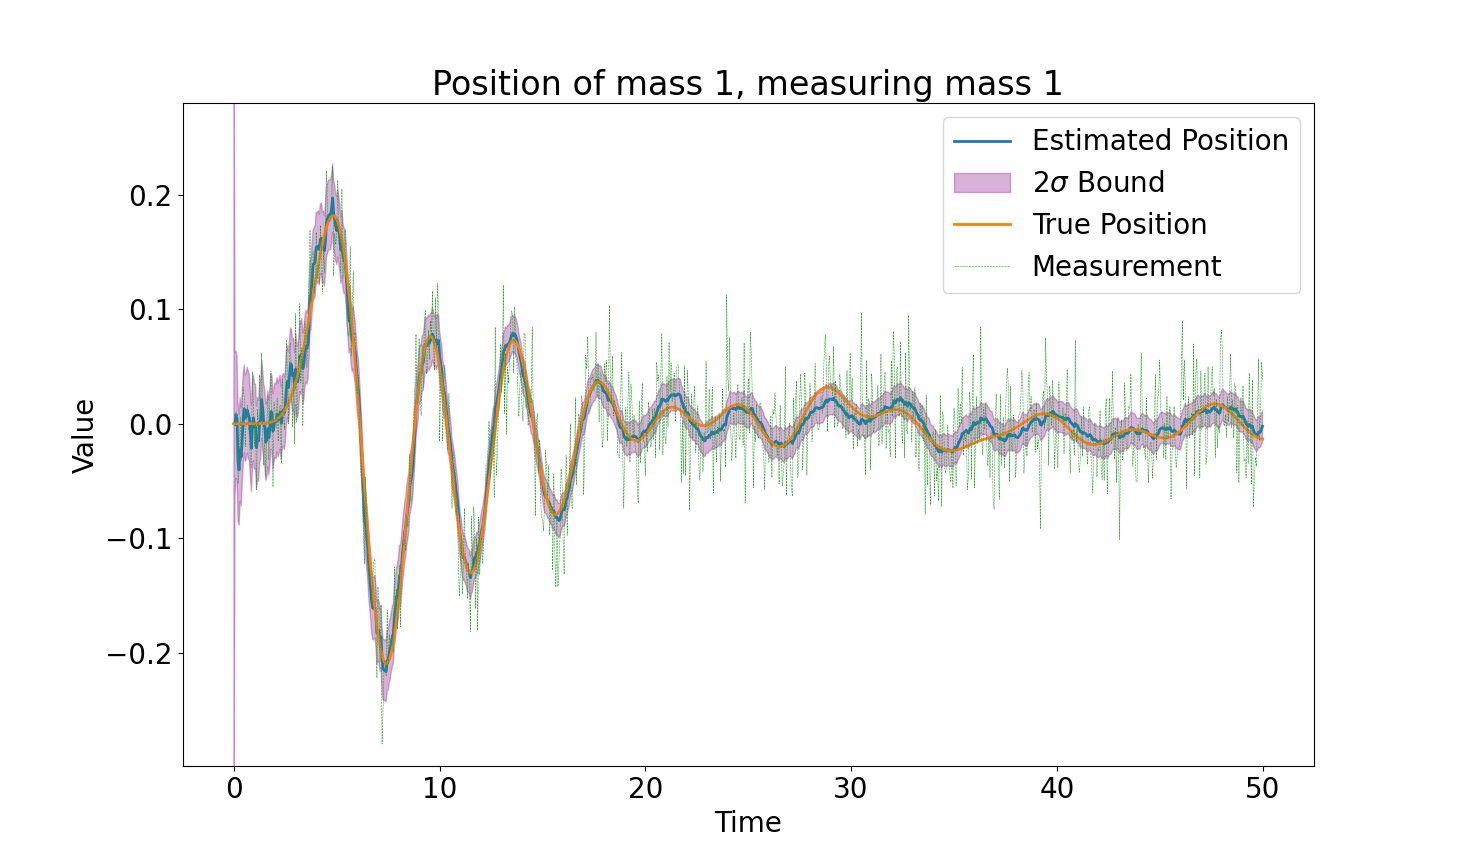
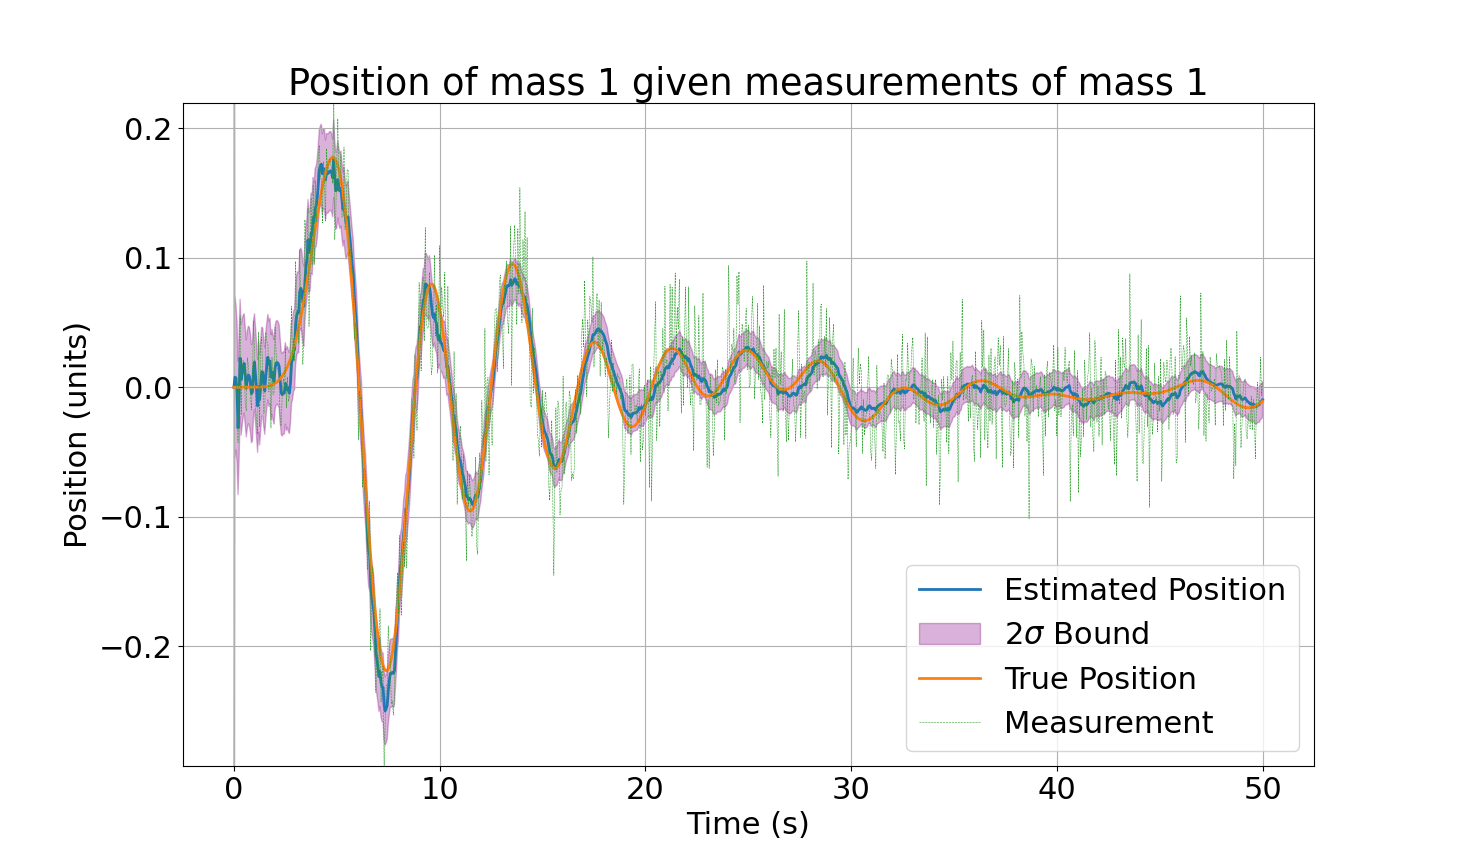
changed pics

diff --git a/_projects/5_project.md b/_projects/5_project.md
@@ -8,7 +8,12 @@ category:
 ---
 [https://github.com/cyrusnolan/mass-spring-damper-KF](https://github.com/cyrusnolan/mass-spring-damper-KF)
 
-Sample result:
+Initial condition response where mass 5 has an initial displacement:
+<div class="row">
+    <div class="col-sm mt-3 mt-md-0">
+        {% include figure.html path="assets/img/mass_spring_damper_sys.png" title="mass spring damper system" class="img-fluid rounded z-depth-1" %}
+    </div>
+</div>
 <div class="row">
     <div class="col-sm mt-3 mt-md-0">
         {% include figure.html path="assets/img/q1zq1.png" title="estimated mass 1 positon given measurements of mass 1 position" class="img-fluid rounded z-depth-1" %}
